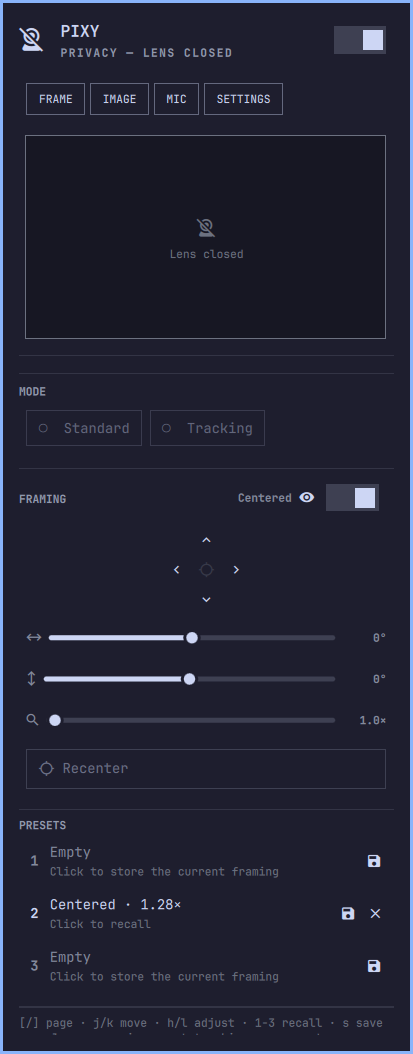
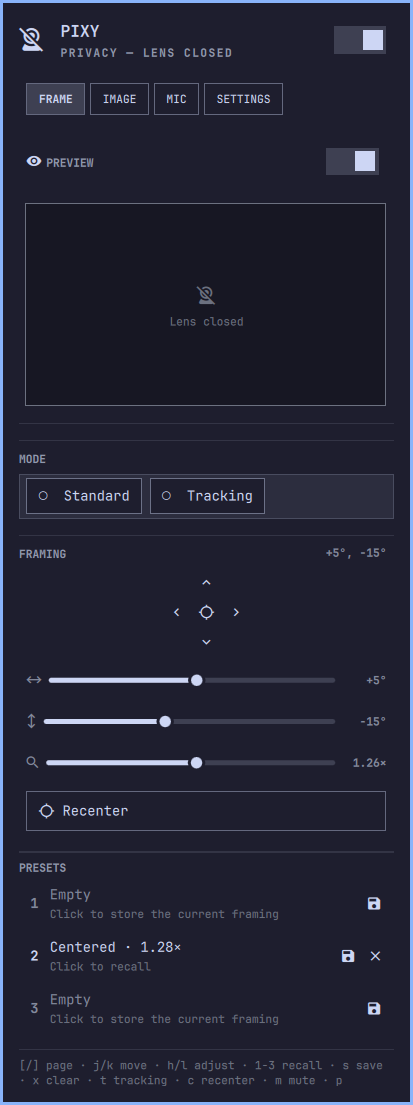
Reshoot the screenshots with the preview switch pinned
All four showed the switch on the FRAMING header, which is not where it is
any more, and preview.png is the marketplace feature image — so the first
thing anyone sees was a layout that no longer ships.

Shot at the same 413px card width as before, with tracking on and the
preview live, so the PREVIEW row and the picture it governs are both visible
on every tab. The privacy shot keeps both mode chips unselected: the camera
cannot report Standard vs Tracking with nothing capturing, and that is the
state the shot is documenting.

The FRAME alt text names the preview switch now that it is in the frame.

diff --git a/README.md b/README.md
@@ -9,7 +9,7 @@ widget that looks and behaves like the first-party ones.
 
 | FRAME | IMAGE | SETTINGS | Lens closed |
 | --- | --- | --- | --- |
-| ![The FRAME tab: privacy switch, pinned preview, mode chips, jog pad, pan/tilt/zoom sliders and the framing presets](docs/panel-frame.png) | ![The IMAGE tab: every control the driver reports, plus named picture profiles](docs/panel-image.png) | ![The SETTINGS tab: the camera's own firmware settings](docs/panel-settings.png) | ![Privacy mode: the preview collapsed to a closed-lens placeholder, the mode chips dimmed](docs/panel-privacy.png) |
+| ![The FRAME tab: privacy switch, the preview switch and the pinned preview, mode chips, jog pad, pan/tilt/zoom sliders and the framing presets](docs/panel-frame.png) | ![The IMAGE tab: every control the driver reports, plus named picture profiles](docs/panel-image.png) | ![The SETTINGS tab: the camera's own firmware settings](docs/panel-settings.png) | ![Privacy mode: the preview collapsed to a closed-lens placeholder, the mode chips dimmed](docs/panel-privacy.png) |
 
 ## What it does
 
